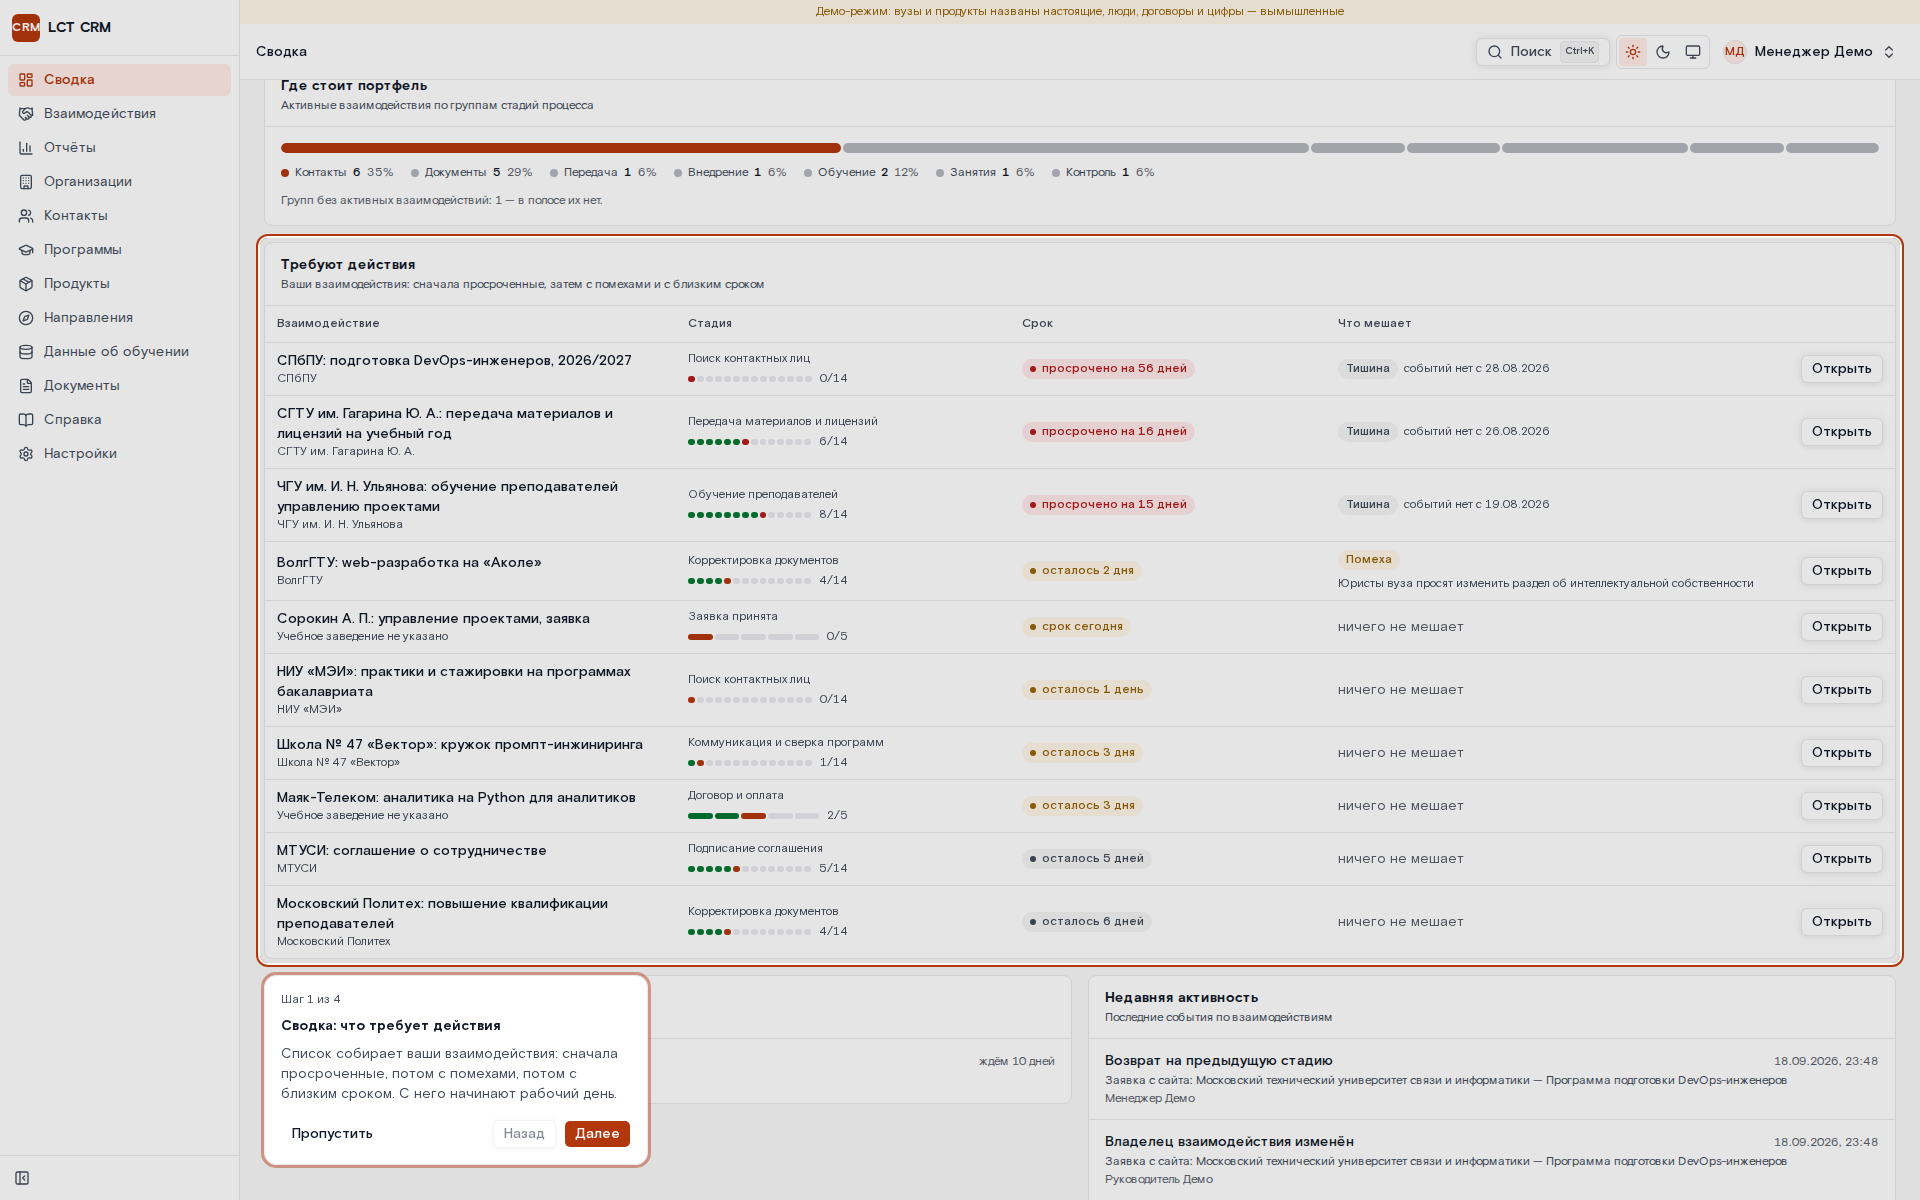
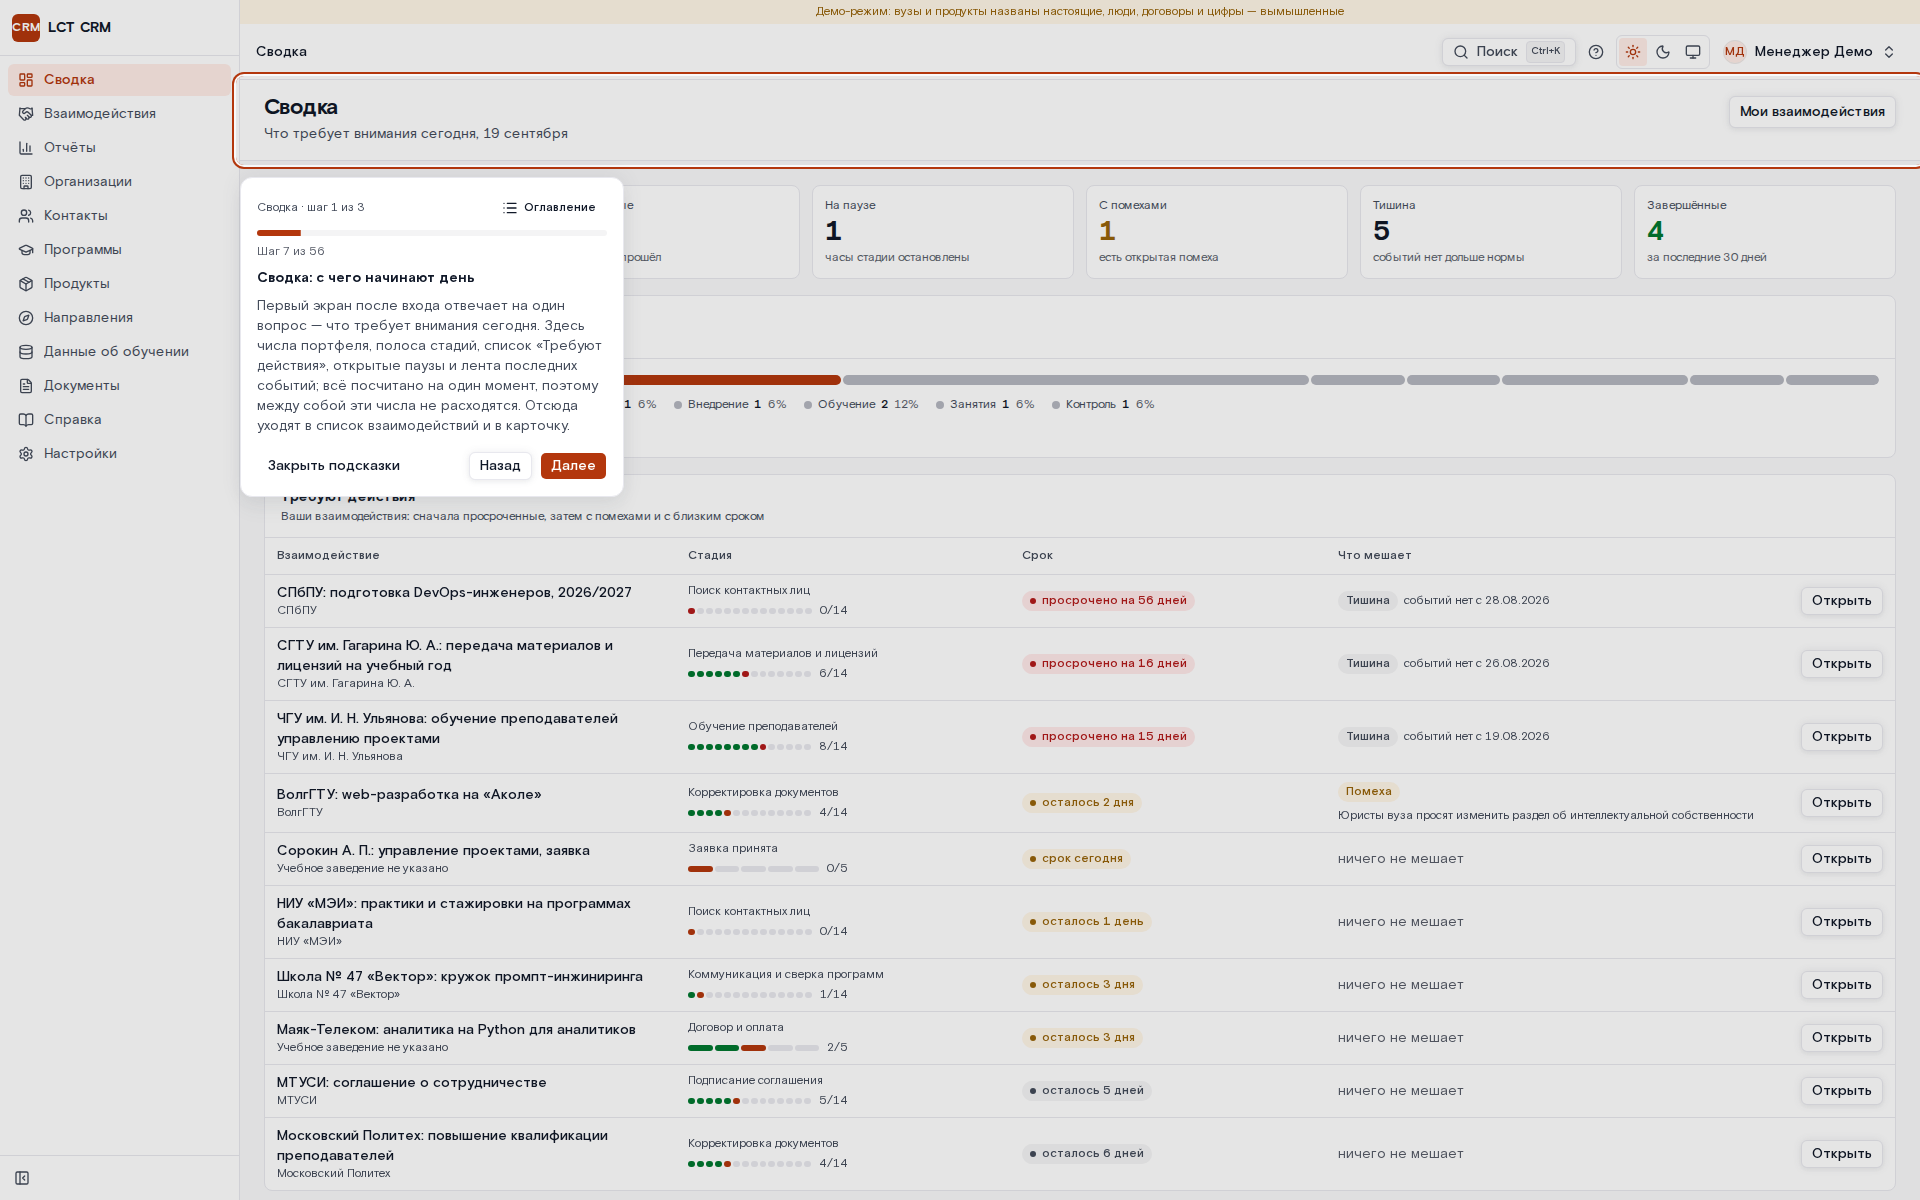
Кадры тура и меню помощи пересняты со стенда

diff --git a/README.md b/README.md
@@ -254,6 +254,7 @@ PNG и PDF, а клик по столбцу воронки не открывае
 | Витрина компонентов и токенов темы: обе темы, ширины 390 и 1280                            | <img src="docs/media/ui-kit.png" alt="UI-кит" width="420">                                    |
 | Тёмная тема на тех же токенах: светлая, тёмная или как в системе, выбор на устройстве      | <img src="docs/media/theme-dark.png" alt="Отчёты в тёмной теме" width="420">                  |
 | Подсказки: тур ведёт по экранам роли сам, значок «?» в шапке открывает их с любой страницы | <img src="docs/media/onboarding.png" alt="Тур по системе" width="420">                        |
+| Значок «?» в шапке: подсказки по этому экрану, полный тур, статья справки об экране        | <img src="docs/media/help-menu.png" alt="Меню подсказок и справки" width="420">               |
 
 </details>
 

diff --git a/src/lib/help/content/user/01-start.md b/src/lib/help/content/user/01-start.md
@@ -37,7 +37,7 @@ summary: Как войти через каталог учётных записе
 «…»». Если вы сами уйдёте на другой экран, тур не утащит вас обратно — он
 предложит кнопку «Вернуться к шагу».
 
-![Подсказки первого входа: рамка вокруг блока сводки и карточка шага с объяснением и кнопками](/help/user/start-3.png)
+![Полный тур на «Сводке»: рамка вокруг заголовка экрана, карточка шага с полосой прогресса, оглавлением и кнопками «Назад», «Далее», «Закрыть подсказки»](/help/user/start-3.png)
 
 В карточке видно, на каком вы экране и каком шаге («Взаимодействия · шаг 2 из
 3»), общий счётчик и полоса прогресса. Кнопка **«Оглавление»** показывает все
